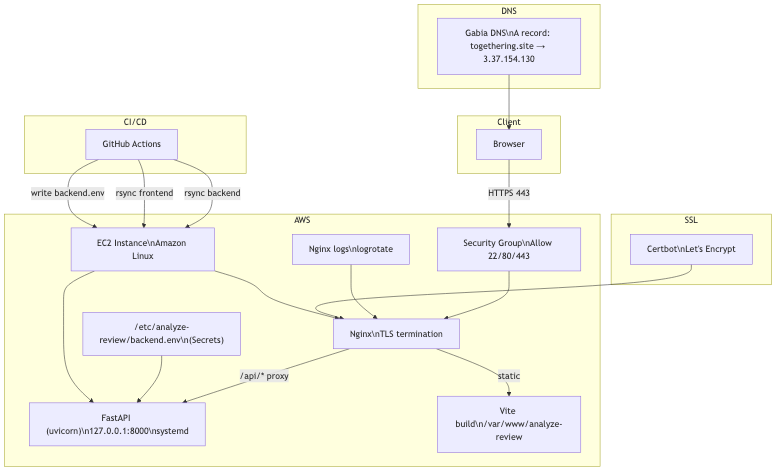
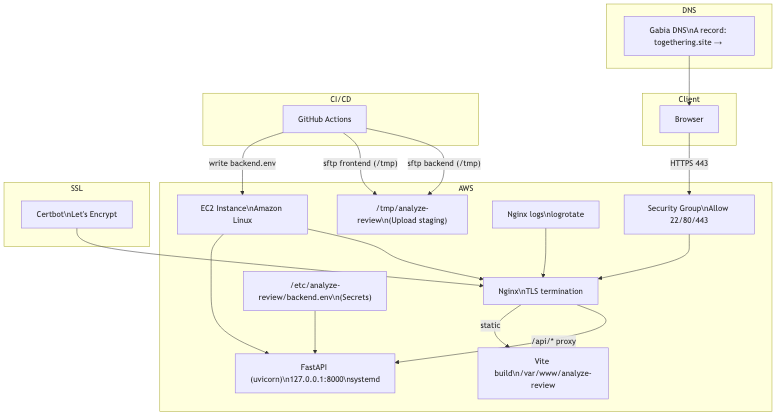
Fix SFTP deploy staging and redact IP in docs

diff --git a/infra/README.md b/infra/README.md
@@ -96,8 +96,8 @@ Repo -> Settings -> Secrets and variables -> Actions
 ## 6) 인프라 구성 요약
 
 1. GitHub Actions가 `main`에 push 시 배포를 트리거
-2. 프론트엔드는 `frontend/dist`를 tar로 묶어 SFTP 전송 후 `/var/www/analyze-review`에 풀림
-3. 백엔드는 소스 전체를 tar로 묶어 SFTP 전송 후 `/opt/analyze-review/current`에 풀림, systemd 서비스로 실행
+2. 프론트엔드는 `frontend/dist`를 tar로 묶어 SFTP로 `/tmp/analyze-review`에 전송 후 `/var/www/analyze-review`에 풀림
+3. 백엔드는 소스 전체를 tar로 묶어 SFTP로 `/tmp/analyze-review`에 전송 후 `/opt/analyze-review/current`에 풀림, systemd 서비스로 실행
 4. Nginx가 정적 파일을 서빙하고 `/api/`는 FastAPI로 프록시
 5. HTTPS는 Let's Encrypt + Certbot으로 종료
 6. Nginx 로그는 별도 파일로 분리되고 logrotate로 관리
@@ -111,7 +111,7 @@ Repo -> Settings -> Secrets and variables -> Actions
 ```mermaid
 flowchart TB
   subgraph DNS[DNS]
-    gabia["Gabia DNS\nA record: togethering.site → 3.37.154.130"]
+    gabia["Gabia DNS\nA record: togethering.site → <EC2_PUBLIC_IP>"]
   end
 
   subgraph Client[Client]
@@ -126,6 +126,7 @@ flowchart TB
     frontend["Vite build\n/var/www/analyze-review"]
     envfile["/etc/analyze-review/backend.env\n(Secrets)"]
     logs["Nginx logs\nlogrotate"]
+    tmpdir["/tmp/analyze-review\n(Upload staging)"]
   end
 
   subgraph CI[CI/CD]
@@ -143,8 +144,8 @@ flowchart TB
   envfile --> backend
   logs --> nginx
   certbot --> nginx
-  github -->|sftp backend| ec2
-  github -->|sftp frontend| ec2
+  github -->|"sftp backend (/tmp)"| tmpdir
+  github -->|"sftp frontend (/tmp)"| tmpdir
   github -->|write backend.env| ec2
   ec2 --> nginx
   ec2 --> backend
